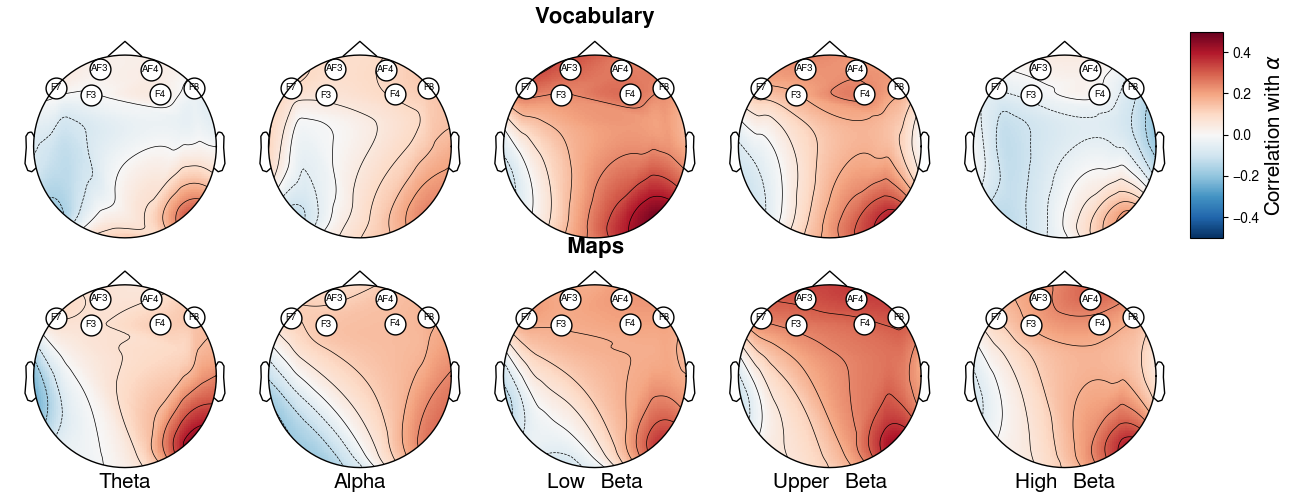
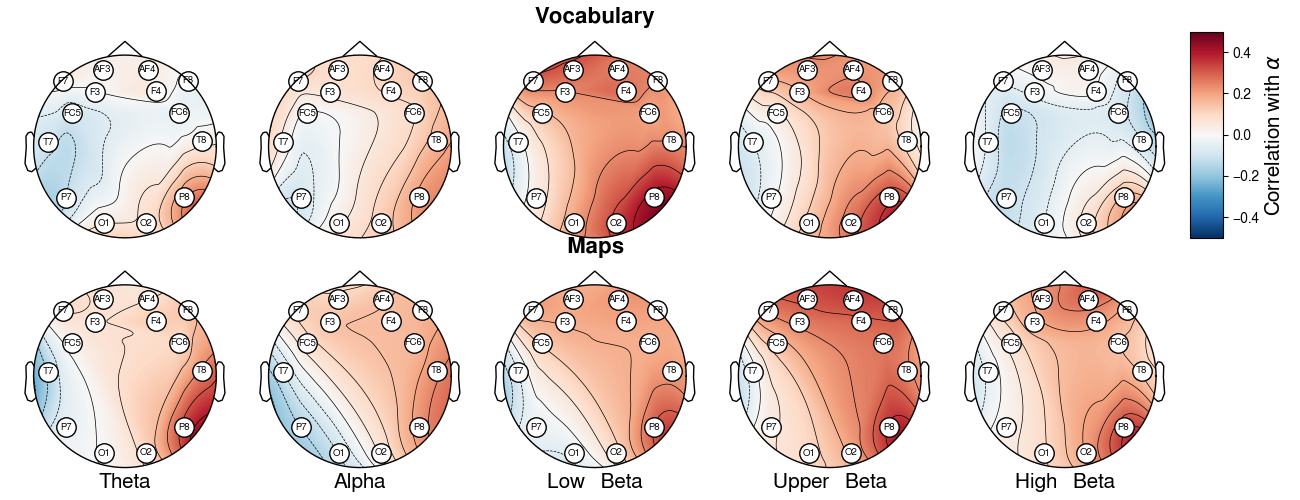
Fixed a bug with MNE topo visualization

diff --git a/topomaps.py b/topomaps.py
@@ -49,7 +49,7 @@ fontbold = {'fontname' : 'FreeSans',
 plt.rcParams['font.sans-serif'] = ['FreeSans']
 
 fig = plt.figure(figsize=(13, 5))
-
+#fig = plt.figure(figsize=(26, 10))
 i = 1
 
 for task in ["Vocabulary", "Maps"]:
@@ -58,35 +58,33 @@ for task in ["Vocabulary", "Maps"]:
     gs = gridspec.GridSpec(2, 6, width_ratios=[1, 1, 1, 1, 1, 0.15]) 
     for band in ['Theta', 'Alpha', 'Low Beta', 'Upper Beta', 'High Beta']:
         subsub = sub.loc[lambda x: x.Band == band]
-        print("..." + band)
-        montage = mne.channels.read_montage(kind="standard_1020")
-        info = mne.create_info(ch_names=list(subsub.Channel),
-                               sfreq=128,
-                               ch_types="eeg",
-                               montage=montage)
-
+        montage = mne.channels.make_standard_montage(kind="standard_1020")
+        print(list(subsub.Channel))
+        info = mne.create_info(ch_names = list(subsub.Channel),
+                               sfreq = 128.0,
+                               ch_types = "eeg",
+                               montage = montage)
         if (i == 6):
             i = i + 1
 
         axs = plt.subplot(gs[i-1])
         f=mne.viz.plot_topomap(data = subsub.r, 
-                               axes=axs,
-                               pos=info,
-                               mask=np.array([True for x in data]),
-                               vmin=-0.5,
-                               vmax=+0.5,
-                               sensors=True,
-                               show=False,
-                               show_names=True,
-                               res=100,
-                               names=subsub.Channel,
-                               outlines="head",
-                               contours=10,
-                               image_interp="nearest",
-                               cmap=plt.get_cmap("RdBu_r"),
-                               mask_params=dict(marker='o', markerfacecolor='white',
-                                                markeredgecolor='k', linewidth=0,
-                                                markersize=15))
+                               axes = axs,
+                               pos = info,
+                               mask = np.array([True for x in subsub.r]).reshape((14,1)),
+                               vmin = -0.5,
+                               vmax = +0.5,
+                               show = False,
+                               show_names = True,
+                               res = 1000,
+                               names = subsub.Channel,
+                               outlines = "head",
+                               contours = 10,
+                               image_interp = "nearest",
+                               cmap = plt.get_cmap("RdBu_r"),
+                               mask_params = dict(marker='o', markerfacecolor='w',
+                                                  markeredgecolor='k', linewidth=0,
+                                                  markersize=14))
             
         bname = band.replace("_", "")
         if i < 6:
